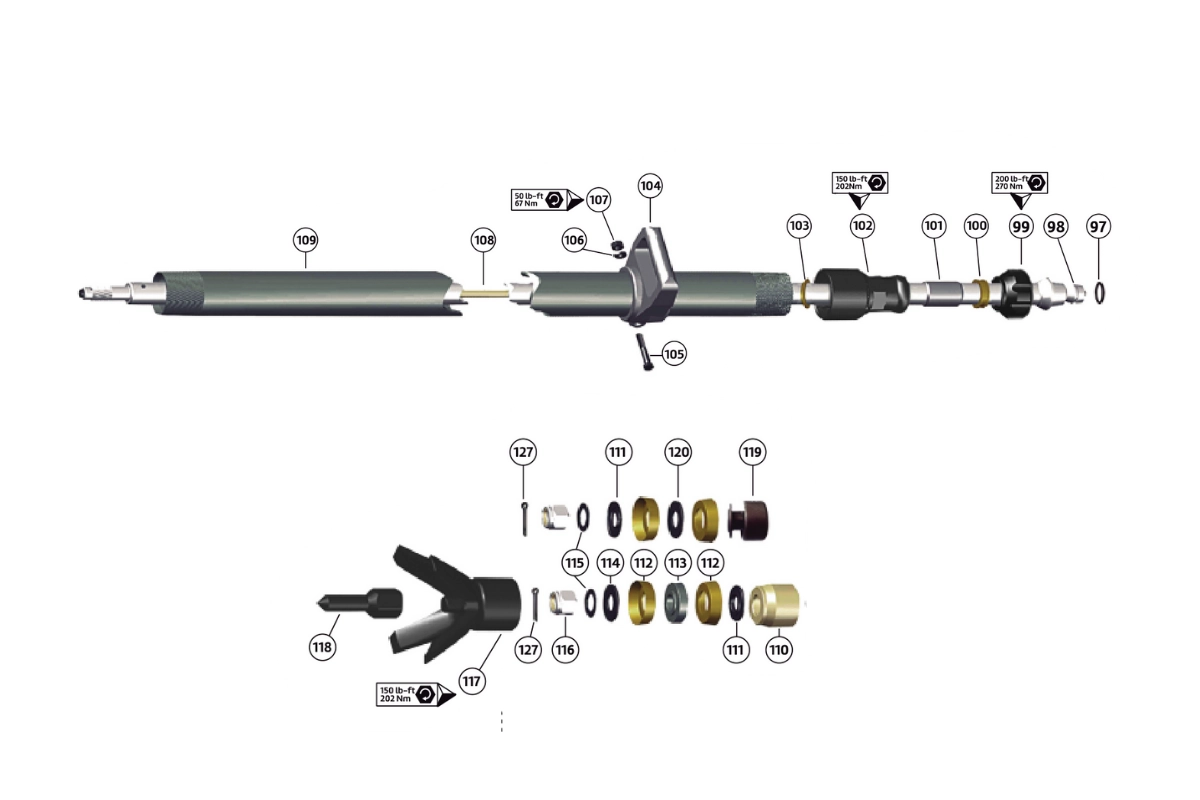
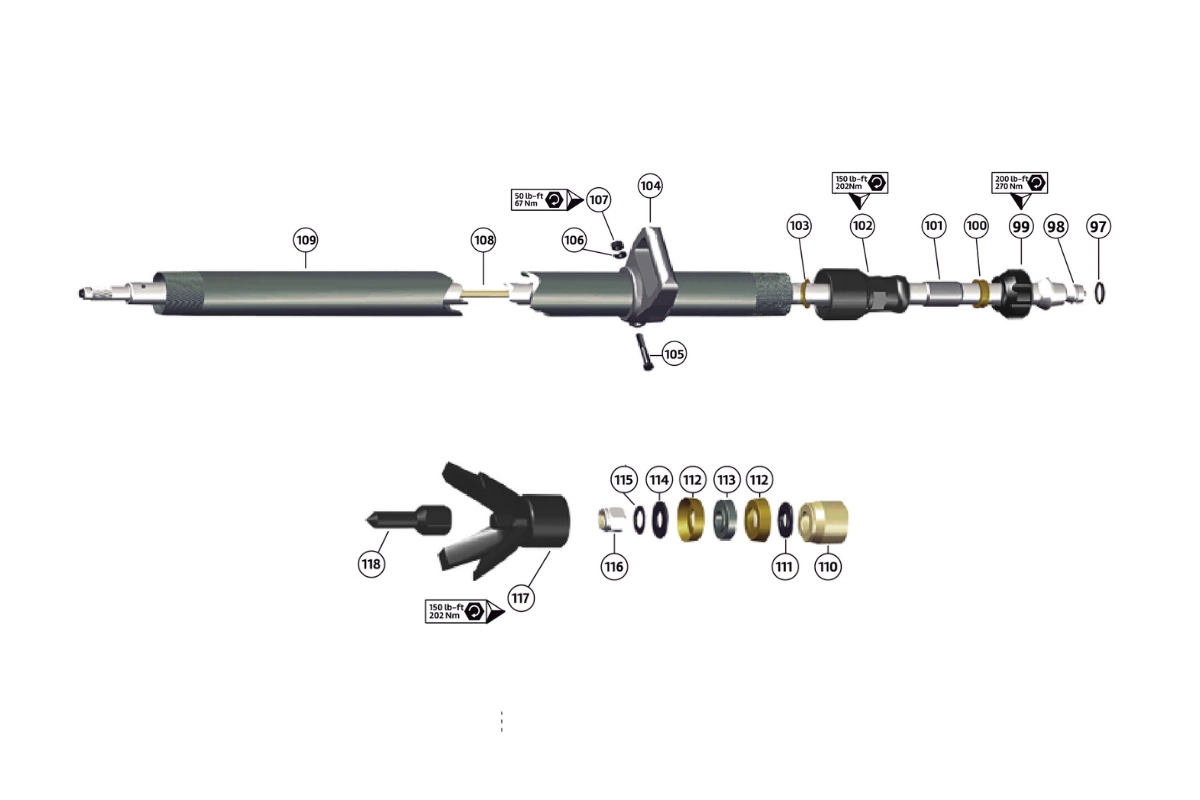
PartesJacklegs250v2Partes Actualizadas

Changed region(s): [[0.2467, 0.5312, 0.7092, 0.9062]]

diff --git a/assets/js/fetch-repuestos-copia.js b/assets/js/fetch-repuestos-copia.js
@@ -52,29 +52,152 @@ document.addEventListener('DOMContentLoaded', () => {
   // Definir puntos de interés (hotspots) para cada categoría
   const hotspotsPorCategoria = {
     "trompa": [
-      [80, 31, "1", "a2599", "Retenedor"],
-      [62, 71, "2", "c6908", "Perno de retenedor"]
+      [80,31,"1","a2599","Retenedor"],
+      [62,71,"2","c6908","Perno de retenedor"],
+      [52,29,"3","128112uf-d1932","Tuerca de retenedor"],
+      [55,37,"4","d6205","Buje del freno (hule)"],
+      [49,61,"4","d6205","Buje del freno (hule)"],
+      [45,38,"5","a2598a","Trompa"],
+      [41,39,"6","snb500","Junta de cobre"],
+      [65,39,"7","c1418a","Bocina hexagonal 7/8''"],
+      [33,40,"8","b1178","Buje de rotacion"],
+      [22,40,"9","c1516","Espaciador Tuerca"],
+      [17,40,"10","c1512","Tuerca chuck"],
     ],
-    'cilindro': [
-      [50, 30, "11", "e393x", "Cilindro estándar"],
-      [70, 40, "16", "b2334", "Pistón"],
-      [30, 60, "15", "c1517", "Buje del pistón"]
+    "cilindro": [
+      [67, 45, "11", "e393x", "Cilindro estandar"],
+      [83, 48, "12", "c1523", "Buje de soporte"],
+      [69, 67, "13", "d8345", "Tapon"],
+      [63, 45, "14", "d1390", "Casquillo"],
+      [56, 45, "15", "c1517", "Buje del piston"],
+      [49, 45, "16", "b2334", "Piston"],
+      [45, 45, "17", "c1508", "Tuerca de rifle"],
+      [40, 45, "18", "a744", "Tapa de valvula"],
+      [35, 45, "19", "c1648", "Valvula automatica"],
+      [31, 64, "20", "a745", "Caja de valvula"],
+      [30, 45, "21", "s2128", "Perno de caja de valvula"],
+      [25, 61, "22", "b5053", "Barra de rotacion"],
+      [12, 65, "23", "d6177", "Aleta reversible"],
+      [19, 64, "24", "s2134", "Perno de aleta"],
+      [18, 59, "25", "d1611c", "Resorte de aleta"],
+      [63, 33, "87", "a693a", "Horquilla"],
+      [66, 26, "88", "d1982", "Tuerca del pivote"],
+      [78, 32, "89", "b1182a", "Pivote"],
+      [80, 37, "90", "d1398", "Cono de pivote"],
+      [70, 42, "91", "30066", "Pasador de pivote"],
+      [82, 43, "92", "d1426", "Cuña"],
+      [89, 67, "93", "d1392", "Arandela"],
+      [90, 72, "94", "c1571", "Resorte"],
+      [91, 76, "95", "c1519", "Arandela de seguridad pivote"],
+      [93, 80, "96", "c1527", "Tuerca del pivote"],
+      [88, 63, "55", "164231-16439003", "Anillo"],
+      [72, 46, "92", "d1426", "Cuña"],
+      [10, 46, "24", "s2134", "Perno de aleta"],
+      [14, 42, "23", "d6177", "Aleta reversible"],
+      [20, 50, "25", "d1611c", "Resorte de aleta"]
     ],
-    'cabezal': [
-      [45, 25, "27", "a660", "Cabezal"],
-      [65, 40, "10", "c1512", "Tuerca chuck"],
-      [25, 60, "8", "b1178", "Buje de rotación"]
+    "cabezal": [
+      [48,41,"26","b1170","Trinquete"],
+      [44,38,"27","a660","Cabezal"],
+      [46,51,"28","b1176","Valvula de estrangulacion"],
+      [48,28,"29","c1509","Palanca de valvula"],
+      [42,30,"30","d1384","Cuña de valvula"],
+      [42,25,"31","149163mt","Arandela"],
+      [38,24,"32","d1385","Tuerca"],
+      [43,69,"33","c1526","Tuerca de codo de aire"],
+      [49,59,"34","d1601","Arandela"],
+      [47,55,"35","164731-1648114","Oring"],
+      [52,61,"36","c1525n","Codo de aire"],
+      [55,62,"37","1356288a","Conector de entrada"],
+      [58,62,"38","164999","Oring"],
+      [57,73,"39","s355538a","Filtro de aire"],
+      [62,62,"40","l05","Conexión de aire bushing"],
+      [79,79,"41A","c1809","Codo de agua (roscado)"],
+      [70,88,"42","s2141","Tuerca de codo entrada de agua"],
+      [76,76,"43","s48f1w","Arandela"],
+      [68,83,"44","164811-1646503","Oring"],
+      [75,72,"45","s2487","Arandela"],
+      [66,78,"46","d1402","Empaque de codo de agua"],
+      [66,73,"47","c1272","Filtro"],
+      [75,94,"48","d2441","Conector (adaptador)"],
+      [40,58,"51","d1383","Perno de valvula de estrangulacion"],
+      [34,53,"52","d1382","Resorte de perno"],
+      [35,61,"53","2422p","Tapon de allen"],
+      [46,44,"54","c1574a","Tubo de agua"],
+      [35,45,"55","164231-16439003","Anillo"],
+      [25,53,"56","d1675","Empaque del tubo de agua"],
+      [24,42,"57","d1674","Espaciador"],
+      [21,42,"58","c2144","Reten del asiento"],
+      [21,53,"59","d1673","Empaque"],
+      [15,42,"60","b11181pc4","Glandula de agua"],
+      [14,53,"61","164301-1648102","Oring"],
+      [11,42,"62","c1522pc1","Valvula de paso"],
+      [8,42,"64","d1406","Resorte de valvula"],
+      [5,42,"65","c1521pc1","Reten del resorte"],
+      [3,53,"66","20029mn","Seguro"],
+      [76,58,"67","c1572c","Tornillo lateral"],
+      [87,72,"68","d1388","Tuerca de tornillo lateral"],
+      [6,53,"55","164231-16439003","Anillo"],
+      [79,23,"67","c1572c","Tornillo lateral"],
+      [83,46,"68","d1388","Tuerca de tornillo lateral"],
+      [44,80,"44","164811-1646503","Oring"],
+      [18,42,"55","164231-16439003","Anillo (6)"],
+      [10,53,"63","164999, 16452-1645704","Oring"]
     ],
-    'maneral': [
-      [40, 30, "69", "a697b", "Maneral"],
-      [60, 50, "87", "a693a", "Horquilla"]
+    "maneral": [
+      [43, 59, "69", "a697b", "Maneral"],
+      [56, 28, "70", "d1454d", "Tuerca de maneral domo"],
+      [46, 84, "72", "145m30", "Arandela de seguridad"],
+      [46, 90, "73", "d8247", "Tuerca de cuerpo de valvula"],
+      [56, 69, "74", "c1514-1515", "Válvula retráctil"],
+      [66, 79, "76", "d1424", "Resorte interno de valvula"],
+      [70, 82, "77", "d1425", "Resorte exterior de camisa"],
+      [73, 85, "78", "d1427", "Tapon allen de valvula"],
+      [44, 70, "79", "b1183b", "Valvula"],
+      [43, 52, "80", "b1180b", "Cuerpo de la valvula"],
+      [50, 35, "81", "164631", "Empaque de cuerpo de valvula"],
+      [49, 27, "82", "c1518", "Manija giratoria"],
+      [41, 27, "83", "30088", "Pasador de fijacion corto"],
+      [41, 21, "84", "300822", "Pasador de fijacion largo"],
+      [49, 22, "85", "149122mt", "Arandela de seguridad"],
+      [44, 18, "86", "d1218uf-d1684", "Tuerca de valvula"],
+      [63, 76, "44", "164811-1646503", "Oring"],
+      [60, 73, "75", "c1514-1515", "Camisa de válvula retractil"],
+      [45, 79, "44", "164811-1646503", "Oring"],
+      [52, 20, "71", "71", "Desconocido"]
     ],
     'barra': [
-      [50, 40, "22", "b5053", "Barra de rotación"],
-      [25, 60, "26", "b1170", "Trinquete"]
+      [92,28,"97","164531-1646014","Anillo"],
+      [88,28,"98","b1851a","Feed piston 51"],
+      [85,28,"99","c1520","Tuerca adaptadora"],
+      [81,28,"100","1973854a","Empaque doble reborde"],
+      [78,28,"101","d1069","Buje de la tapa superior"],
+      [72,28,"102","b1287","Tapa superior"],
+      [67,28,"103","1973854","Empaque"],
+      [54,23,"104","b1308","Agarradera"],
+      [56,44,"105","1026w12","Tornillo"],
+      [48,30,"106","143m10","Arandela"],
+      [50,25,"107","1216w","Tuerca"],
+      [40,30,"108","sb1851rk1","Tubo de plastico con casquillos y oring"],
+      [26,30,"109","c1788a","Cilindro 51"],
+      [69,71,"110","5601773-p134bl","Porta empaque superior"],
+      [65,71,"111","9002661","Porta empaque inferior"],
+      [58,60,"112","1796740","Empaque"],
+      [60,60,"113","c10119","Espaciador del vástago del pistón"],
+      [55,60,"114","c10120","Espaciador"],
+      [52,60,"115","d2038","Arandela"],
+      [51,71,"116","d1073a","Tuerca de seguridad"],
+      [43,75,"117","c1791","Apoyo"],
+      [31,71,"118","c1672","Perno de apoyo"],
+      [63,60,"112","1796740","Empaque"]
     ],
     'lubricadora': [
-      [40, 45, "49", "936658", "Válvula de control de agua"]
+      [36,56,"49","936658","Válvula de control de agua"],
+      [27,56,"50","76001","Conexión de agua"],
+      [60,56,"121","L07","Lubricador"],
+      [69,56,"123","L06","Adaptador de Lubricador"],
+      [50,56,"124","L08","Conexión de salida de lubricador"],
+      [75,56,"40","lub-adap","Reductor Adaptador de lubricador"]
     ]
   };
 
